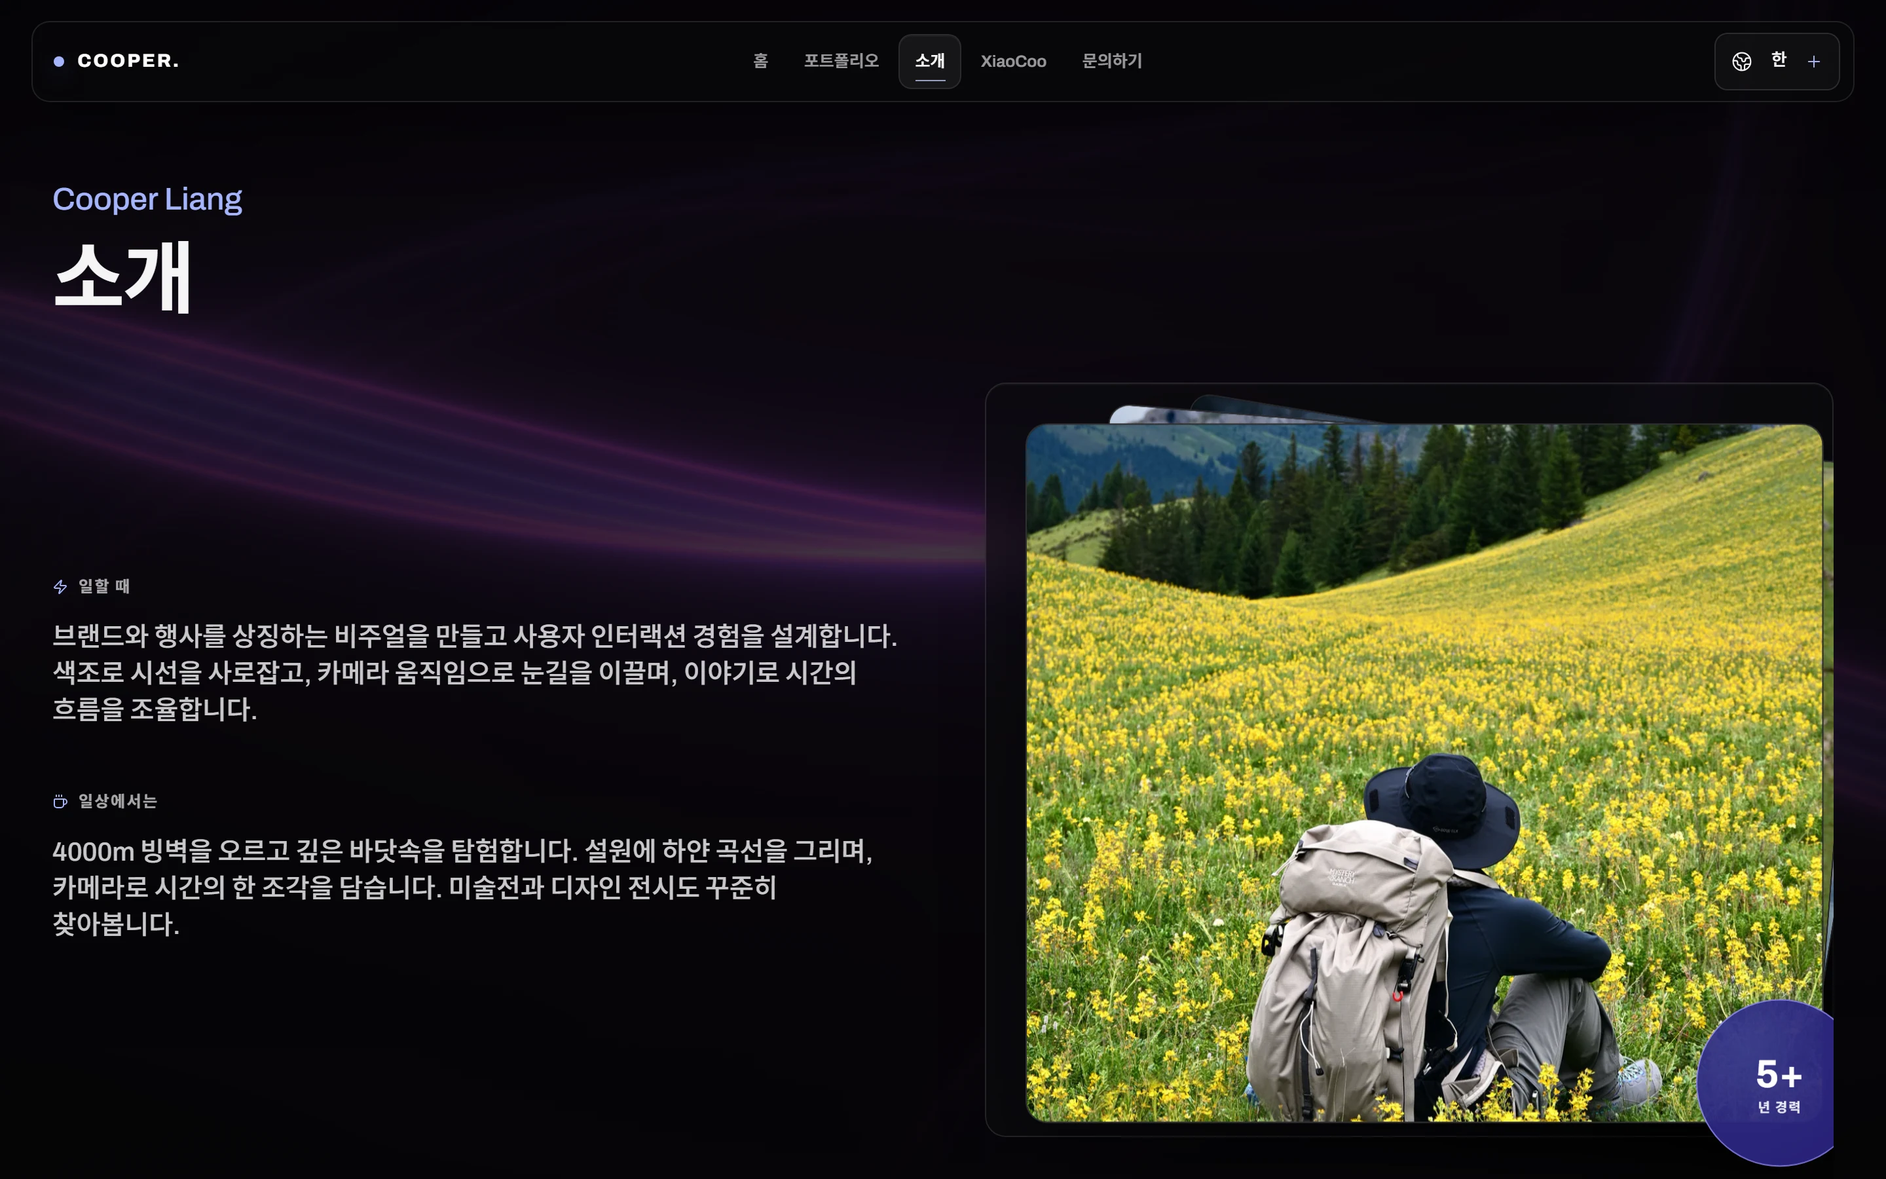
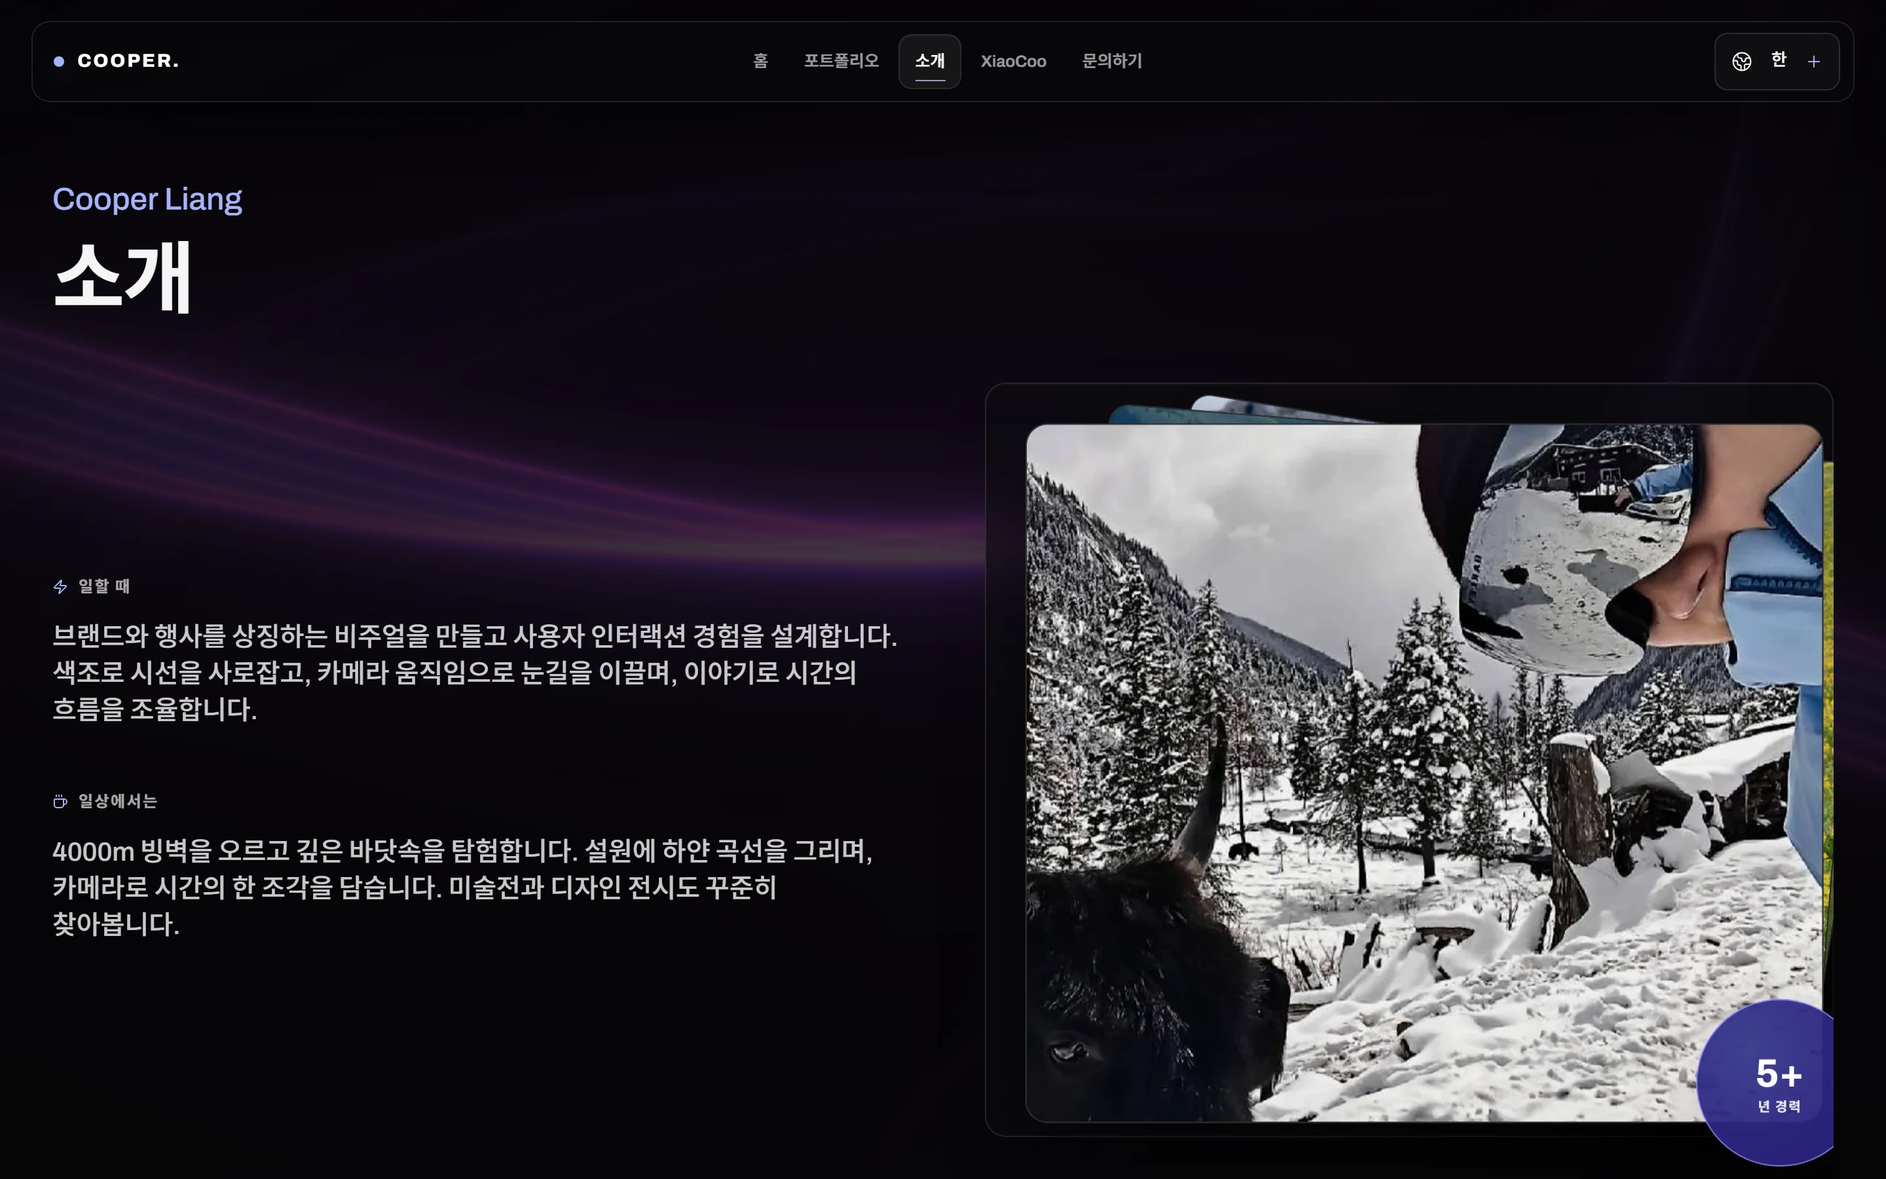
Refine mobile gallery, workflow taps and footer contacts

diff --git a/src/components/motion/GsapAboutAvatar.tsx b/src/components/motion/GsapAboutAvatar.tsx
@@ -1,6 +1,6 @@
 "use client";
 
-import { useMemo, useRef } from "react";
+import { useMemo, useRef, useSyncExternalStore } from "react";
 import { useGSAP } from "@gsap/react";
 import gsap from "gsap";
 import useMotionTier from "@/hooks/useMotionTier";
@@ -12,6 +12,31 @@ import Stack from "@/components/ui/Stack";
 import { useTranslation } from "@/locales/LanguageProvider";
 
 const ACCENT = "#6366f1";
+const MOBILE_GALLERY_QUERY = "(max-width: 767px), (hover: none) and (pointer: coarse)";
+
+// Stack paints the final card on top. Preserve the other photos' browsing order.
+const ABOUT_PHOTOS = [
+  { file: "ice-climb", altIndex: 1 },
+  { file: "ice-climb-action", altIndex: 2 },
+  { file: "mountain-shell", altIndex: 3 },
+  { file: "meadow-rest", altIndex: 4 },
+  { file: "snow-journey", altIndex: 0 },
+] as const;
+
+function subscribeToGalleryViewport(onChange: () => void) {
+  const query = window.matchMedia(MOBILE_GALLERY_QUERY);
+  query.addEventListener("change", onChange);
+  return () => query.removeEventListener("change", onChange);
+}
+
+function isMobileGalleryViewport() {
+  return window.matchMedia(MOBILE_GALLERY_QUERY).matches;
+}
+
+// Never flash or fetch the desktop-only photo before the device is resolved.
+function getServerGalleryViewport() {
+  return true;
+}
 
 type GsapAboutAvatarProps = {
   experienceLabel: string;
@@ -23,6 +48,11 @@ export default function GsapAboutAvatar({
   className,
 }: GsapAboutAvatarProps) {
   const { t } = useTranslation();
+  const mobileGallery = useSyncExternalStore(
+    subscribeToGalleryViewport,
+    isMobileGalleryViewport,
+    getServerGalleryViewport,
+  );
   const wrapperRef = useRef<HTMLDivElement>(null);
   const frameRef = useRef<HTMLDivElement>(null);
   const imageRef = useRef<HTMLDivElement>(null);
@@ -36,34 +66,16 @@ export default function GsapAboutAvatar({
   const reduced = usePrefersReducedMotion();
   const gsapActive = shouldUseGsap(reduced);
   const cards = useMemo(
-    () => [
-      <img
-        key="snow-journey"
-        src="/photos/about-stack/snow-journey.webp"
-        alt={t.media.aboutPhotos[0]}
-      />,
-      <img
-        key="ice-climb"
-        src="/photos/about-stack/ice-climb.webp"
-        alt={t.media.aboutPhotos[1]}
-      />,
-      <img
-        key="ice-climb-action"
-        src="/photos/about-stack/ice-climb-action.webp"
-        alt={t.media.aboutPhotos[2]}
-      />,
-      <img
-        key="mountain-shell"
-        src="/photos/about-stack/mountain-shell.webp"
-        alt={t.media.aboutPhotos[3]}
-      />,
-      <img
-        key="meadow-rest"
-        src="/photos/about-stack/meadow-rest.webp"
-        alt={t.media.aboutPhotos[4]}
-      />,
-    ],
-    [t.media.aboutPhotos],
+    () => ABOUT_PHOTOS
+      .filter((photo) => !mobileGallery || photo.file !== "snow-journey")
+      .map((photo) => (
+        <img
+          key={photo.file}
+          src={`/photos/about-stack/${photo.file}.webp`}
+          alt={t.media.aboutPhotos[photo.altIndex]}
+        />
+      )),
+    [mobileGallery, t.media.aboutPhotos],
   );
 
   const pauseIdle = () => {
@@ -147,7 +159,7 @@ export default function GsapAboutAvatar({
   );
 
   return (
-    <div ref={wrapperRef} className="w-full h-full aspect-[4/5] max-h-[36rem]">
+    <div ref={wrapperRef} data-about-gallery={mobileGallery ? "mobile" : "desktop"} className="w-full h-full aspect-[4/5] max-h-[36rem]">
       <GsapGlassHover
         accent={ACCENT}
         variant="avatar"
@@ -171,6 +183,7 @@ export default function GsapAboutAvatar({
             className="relative h-full w-full will-change-transform"
           >
             <Stack
+              key={mobileGallery ? "mobile" : "desktop"}
               cards={cards}
               randomRotation
               sensitivity={110}

diff --git a/src/components/ui/FlowingMenu.tsx b/src/components/ui/FlowingMenu.tsx
@@ -33,7 +33,6 @@ type MenuItemProps = FlowingMenuItem & {
   touchMode: boolean;
   onActivate: () => void;
   onDeactivate: () => void;
-  onToggle: () => void;
 };
 
 function MenuItem({
@@ -46,7 +45,6 @@ function MenuItem({
   touchMode,
   onActivate,
   onDeactivate,
-  onToggle,
 }: MenuItemProps) {
   const itemRef = useRef<HTMLDivElement>(null);
   const marqueeRef = useRef<HTMLDivElement>(null);
@@ -169,17 +167,29 @@ function MenuItem({
         type="button"
         className={styles.itemButton}
         aria-expanded={active}
-        onMouseEnter={(event) => {
+        onPointerEnter={(event) => {
+          // Touch contact also emits pointerenter; only a real mouse hover selects here.
+          if (event.pointerType !== "mouse" || event.buttons !== 0) return;
           recordEdge(event.clientX, event.clientY, event.currentTarget, "entry");
           onActivate();
         }}
-        onMouseLeave={(event) => {
+        onPointerLeave={(event) => {
+          if (event.pointerType !== "mouse") return;
           recordEdge(event.clientX, event.clientY, event.currentTarget, "exit");
           if (!touchMode) onDeactivate();
         }}
-        onFocus={onActivate}
+        onFocus={(event) => {
+          // A pointer may focus the button before its gesture becomes a scroll.
+          if (event.currentTarget.matches(":focus-visible")) onActivate();
+        }}
         onBlur={() => !touchMode && onDeactivate()}
-        onClick={() => (touchMode ? onToggle() : onActivate())}
+        onClick={(event) => {
+          if (event.detail > 0) {
+            recordEdge(event.clientX, event.clientY, event.currentTarget, "entry");
+          }
+          // Native click waits for a completed tap; repeated activation is idempotent.
+          onActivate();
+        }}
       >
         <span className={styles.number}>{number}</span>
         <span className={styles.title}>{text}</span>
@@ -235,7 +245,6 @@ export default function FlowingMenu({
             active={activeIndex === index}
             onActivate={() => setActiveIndex(index)}
             onDeactivate={() => setActiveIndex((current) => (current === index ? null : current))}
-            onToggle={() => setActiveIndex((current) => (current === index ? null : index))}
           />
         ))}
       </div>

diff --git a/src/app/globals.css b/src/app/globals.css
@@ -1552,6 +1552,7 @@ select option {
 
 .site-footer__contacts {
   display: flex;
+  flex-wrap: wrap;
   align-items: center;
   justify-content: center;
   gap: 0.4rem;
@@ -1581,6 +1582,10 @@ select option {
   border-color: rgba(255, 255, 255, 0.12);
   background: rgba(255, 255, 255, 0.045);
   transform: translateY(-2px);
+}
+
+.site-footer__contact > svg {
+  flex-shrink: 0;
 }
 
 .site-footer__contact:active {
@@ -2500,16 +2505,31 @@ select option {
   }
 
   .site-footer__contacts {
-    justify-content: flex-start;
-    overflow-x: auto;
+    display: grid;
+    grid-template-columns: repeat(2, minmax(0, 1fr));
+    gap: 0.5rem;
+    max-width: 28rem;
+    margin-inline: auto;
     padding: 0.15rem 0 0.5rem;
-    scroll-snap-type: x proximity;
-    scrollbar-width: thin;
   }
 
   .site-footer__contact {
-    flex: 0 0 auto;
-    scroll-snap-align: start;
+    width: 100%;
+    gap: 0.5rem;
+    padding-inline: 0.5rem;
+    font-size: 0.875rem;
+    line-height: 1.5;
+    white-space: normal;
+  }
+
+  .site-footer__contact[data-contact="email"],
+  .site-footer__contact[data-contact="location"] {
+    grid-column: 1 / -1;
+  }
+
+  .site-footer__contact > span {
+    min-width: 0;
+    overflow-wrap: anywhere;
   }
 
   .screening-stats {

diff --git a/src/components/SiteFooter.tsx b/src/components/SiteFooter.tsx
@@ -122,6 +122,7 @@ export default function SiteFooter() {
             key={contact.key}
             type="button"
             className="site-footer__contact"
+            data-contact={contact.key}
             onClick={() => copyToClipboard(contact.value)}
             aria-label={`${t.ui.copy} ${contact.label}`}
             title={t.ui.clickToCopy}

diff --git a/DESIGN.md b/DESIGN.md
@@ -197,7 +197,7 @@ Professional services use three equal desktop columns in one row. Every service 
 - The supported viewport floor is `320px`.
 - At `1024px`, the full desktop navigation yields to the menu control and modal navigation panel.
 - At `900px` and below, professional services and analysis become natural-height single columns; the footer keeps its centered single-column close and uses the same fluid `2.5rem–4.5rem` separation from preceding content as every other route.
-- At `640px` and below, header insets contract to `0.75rem`, main padding becomes `7.5rem 0.85rem 1rem`, the footer contact row becomes horizontally scrollable without overflowing the page, workflow becomes a two-column number/content structure, and analysis point grids become single-column.
+- At `640px` and below, header insets contract to `0.75rem`, main padding becomes `7.5rem 0.85rem 1rem`, footer contacts use a two-column grid with full-width email and location rows and a shared phone/WeChat row, workflow becomes a two-column number/content structure, and analysis point grids become single-column.
 - The hero has a `100svh` minimum and centers the visible title, description, and actions as one group whenever the content fits, including at `1440px`, `390px`, and `320px` widths. Mobile actions remain full-width and stacked; long translations or very short screens extend the whole section naturally without clipping, preserving symmetric `7rem` top/bottom clearance and keeping the content below the fixed navigation.
 - At `640px` and below, the FloatingLines layer drops from `0.58` to `0.44` opacity, reduces saturation/brightness, and caps renderer device pixel ratio at `1.25` instead of the wider-screen cap of `2`.
 
@@ -324,7 +324,8 @@ Hairlines are essential geometry. One-pixel zinc rules organize capabilities, st
 ### About photo stack
 
 - **Role:** the existing About avatar region becomes a tactile personal gallery without changing biography copy or the experience badge.
-- **Media:** use only Cooper's supplied or already-published personal imagery. The current five-card gallery contains the remaining outdoor and activity photographs after the formal studio portrait was removed at the user's direction. Prepare consistent `4:5`, `1200 × 1500` WebP crops with the person or activity kept inside the central reading area; exclude captions and screenshots from the crop.
+- **Media:** use only Cooper's supplied or already-published personal imagery. The desktop gallery contains five outdoor and activity photographs after the formal studio portrait was removed at the user's direction; the mobile gallery contains four. Prepare consistent `4:5`, `1200 × 1500` WebP crops with the person or activity kept inside the central reading area; exclude captions and screenshots from the crop.
+- **Initial card and responsive selection:** Stack paints its final item on top. Desktop therefore places `/photos/about-stack/snow-journey.webp` last to open with the snow selfie, preserving the other photographs' relative browsing order. The query `(max-width: 767px), (hover: none) and (pointer: coarse)` filters out only that photo on narrow screens or coarse no-hover devices, including phone landscape; the remaining four cards open with `meadow-rest.webp`. Listen for query changes so viewport and input changes update the selection. Keep the snow-journey source file rather than deleting it.
 - **Behavior:** the top image can be dragged beyond a bounded threshold, clicked, or advanced with Enter/Space to move it behind the stack. Lower cards retain restrained rotation and depth so the available gallery is obvious.
 - **Resilience:** the experience badge remains above the cards and does not intercept input. Explicit reduced motion disables free dragging and uses immediate click/keyboard advancement.
 
@@ -339,7 +340,7 @@ Hairlines are essential geometry. One-pixel zinc rules organize capabilities, st
 
 - **Role:** the four preserved home workflow steps remain an ordered editorial sequence, but the active row resolves into a continuous image-and-text strip that makes each stage tangible.
 - **Media:** each stage uses one dedicated, text-free nocturnal studio photograph with a central subject and edge-safe `3:2` crop. The four images share graphite, cold-white, and restrained indigo lighting.
-- **Behavior:** pointer hover and keyboard focus reveal a row from the closest vertical edge; touch layouts keep one row active and allow tap-to-switch. Only the active, visible row's marquee runs.
+- **Behavior:** one completed tap or click selects the target row directly and idempotently; activating the same row again keeps it selected. Real mouse hover without pressed buttons and keyboard-visible focus also select a row, while touch-generated hover/focus does not select it a second time. Touch layouts keep one row active. Preserve the existing GSAP edge reveal and marquee effects; only the active, visible row's marquee runs.
 - **Resilience:** `prefers-reduced-motion` keeps the selected row visible but freezes the horizontal loop. Static row text remains the semantic source, so the entire sequence is readable without GSAP.
 
 ### Nocturnal operate surfaces
@@ -372,7 +373,8 @@ Hairlines are essential geometry. One-pixel zinc rules organize capabilities, st
 
 ### Footer
 
-- **Structure:** a centered single-column close separated from the preceding page content by the global `clamp(2.5rem, 5vw, 4.5rem)` rhythm: brand and note lead, followed by one centered horizontal row containing email, phone, WeChat, and location. Every contact is a keyboard-operable copy action; at `640px`, the row scrolls horizontally inside its own bounds instead of overflowing the page.
+- **Structure:** a centered single-column close separated from the preceding page content by the global `clamp(2.5rem, 5vw, 4.5rem)` rhythm: brand and note lead, followed by email, phone, WeChat, and location on one centered desktop row when space allows, wrapping naturally when it does not. All four contacts remain keyboard-operable copy actions with a minimum height of `44px`.
+- **Small-screen contacts:** at `640px` and below, use a centered two-column grid capped at `28rem`. Email and location each span both columns; phone and WeChat share the middle row. Allow labels to wrap, including long email addresses, without a horizontal scrolling or dragging rail.
 - **Portfolio endings:** the final gallery on `p1`, `p3`, and `p4`, and the project picker on `p2`, have no trailing section margin. Keep their existing page-shell bottom padding, matching About, and let the global footer separation provide the remaining gap; do not stack an extra `mb-16` / `lg:mb-24` before the footer.
 - **Locale readiness:** preserve the footer's layout space but keep it visually hidden, inert, and hidden from assistive technology until the initial language is resolved, so the note and contact feedback never flash in the wrong language.
 - **Feedback:** successful copy displays a small localized fixed toast for `1.8s`; failure states are honest, keyboard focus remains visible, and reduced motion removes the entrance animation.
@@ -415,11 +417,11 @@ This design system governs presentation only. The names **COOPER.**, **梁世城
 - [ ] Professional services still use three equal desktop columns with no featured item; mobile still resolves to one natural-height column.
 - [ ] The portfolio focus rail keeps four real projects, one active state, whole-surface project links, keyboard navigation, mobile first-tap expansion, vertical behavior, and a reduced-motion fallback.
 - [ ] Xiaocoo still follows transcript → suggestions → composer, and the removed Task Brief destination has not returned to the public navigation or route build.
-- [ ] The footer remains centered, with four copyable contact methods on one desktop row and a contained horizontal rail at `640px`.
+- [ ] The footer remains centered, with four copyable contacts at least `44px` high: one desktop row that can wrap, and at `640px` and below a two-column grid with full-width email/location rows and phone/WeChat together. Labels wrap without horizontal dragging; the copy toast remains available.
 - [ ] Navigation, language switching, forms, APIs, lightboxes, project data, contact methods, and Xiaocoo still behave exactly as before the visual change.
 - [ ] The desktop navigation owns exactly one shared active surface that moves between routes; reduced motion resolves it immediately.
-- [ ] The five-image About photo stack advances by drag, click, Enter, and Space; supplied images use text-free `4:5` crops and the experience badge stays non-blocking.
-- [ ] The home workflow keeps all four translated steps, uses one generated image per stage, reveals on pointer/focus/tap, and runs only the active visible marquee.
+- [ ] The About photo stack opens with snow-journey on desktop and meadow-rest in the four-card mobile gallery; the `767px` or coarse no-hover query updates on viewport/input changes, preserves other photos' order, and retains the snow source asset. Drag, click, Enter, Space, text-free `4:5` crops, and the non-blocking experience badge remain intact.
+- [ ] The home workflow keeps all four translated steps and their existing GSAP effects; one tap/click idempotently selects a step, real mouse hover and keyboard-visible focus still select, touch-generated hover/focus does not double-select, and only the active visible marquee runs.
 - [ ] Keyboard focus, semantic headings, contrast, mobile scroll locking, full-motion defaults, and the explicit reduced-motion path are verified.
 - [ ] `NightBackdrop` mounts exactly one FloatingLines instance with gradient `#E945F5 / #2F4BC0 / #E945F5`, speed `1`, interactivity off, bend `5 / -0.5`, damping `0.05`, and parallax `true / 0.2`.
 - [ ] Fixed full-screen WebGL, vignette readability, mobile DPR `1.25` and opacity `0.44`, page-hidden render pause, reduced-motion static frame, fallback state, and full cleanup remain intact.

diff --git a/PRODUCT.md b/PRODUCT.md
@@ -27,6 +27,9 @@ The site joins finished visual work, process analysis, personal outdoor and arti
 - The header and footer wait for the initial locale to be ready before becoming visible and interactive, preventing a flash of the wrong language.
 - In all four languages, the visible home title, supporting description, and two actions form one horizontally and vertically centered group. The first section uses a 100svh minimum and a flex column with 7rem of symmetric top/bottom clearance; the title's 1.25rem top inset is balanced by the support area's 1.25rem bottom inset. When long translations or a short viewport exceed the available height, the hero grows naturally and scrolls without clipping or overlapping the fixed navigation. Existing motion remains unchanged.
 - Portfolio routes include a project index, detailed graphic/photography/video cases, and nested P2 interface-design subprojects.
+- The About photo stack opens with `/photos/about-stack/snow-journey.webp` on desktop, using the final card as the top card while preserving the other photos' relative browsing order. When `(max-width: 767px)` or `(hover: none) and (pointer: coarse)` matches, it excludes that photo and retains the other four, opening with `meadow-rest.webp`; this also covers touch-phone landscape and updates when viewport or input conditions change. The snow-journey source asset remains available.
+- Each home workflow step is selected by one completed tap or click; repeated activation keeps the selected step open. Real mouse hover and keyboard-visible focus can also select a step, while touch-generated hover/focus does not trigger another selection. The existing GSAP reveal and marquee effects remain unchanged.
+- Footer contacts stay on one centered desktop row when space allows and wrap naturally when needed. At `640px` and below, email and location each span a full row in a two-column grid, with phone and WeChat sharing the middle row. Labels may wrap instead of requiring horizontal dragging; all four copy actions retain targets at least `44px` high and their localized feedback toast.
 - The personal-website case uses eight real screenshots per language under public/photos/portfolio/p2/localized/{zh,en,ja,ko}/: four core-page images and four component images. The current language selects the screenshot set and changing it resets the lightbox. The language-menu image replaces the removed Task Brief image; scripts/capture-p2-design.mjs remains the capture workflow.
 - The Contact route submits structured information through its existing API flow. The former Task Brief route is intentionally absent from the public build and navigation.
 - Xiaocoo answers questions about Cooper's background, work, projects, and skills.
